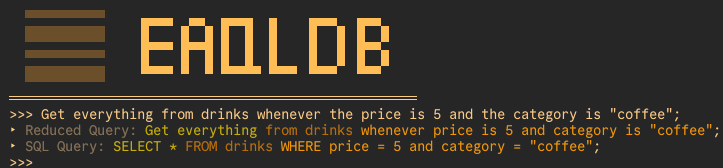
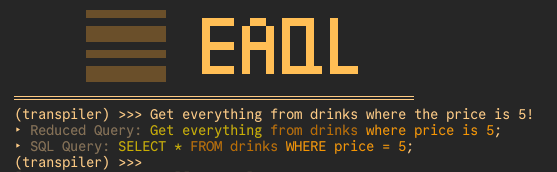
Decoupling from EAQLDB and beginning conversion to lib (#24)
* decoupling start

* cleanup

Changed region(s): [[0.0, 0.625, 1.0, 0.9821], [0.0305, 0.0595, 0.6409, 0.506], [0.0, 0.5357, 0.763, 0.5952]]

diff --git a/src/utils/help.rs b/src/utils/help.rs
@@ -1,23 +1,23 @@
 use crate::utils;
 
 const LOGO_ASCII: &str = "
- \x1b[90m ▀▀▀▀▀▀▀▀▀▀  \x1b[94m  ▗▄▄▄▖ ▗▄▖ ▗▄▄▄▖ ▗▖   ▗▄▄▄  ▗▄▄▖\x1b[0m       
- \x1b[90m ██████████  \x1b[94m  ▐▌   ▐▌ ▐▌▐▌ ▐▌ ▐▌   ▐▌  █ ▐▌ ▐▌\x1b[0m     
- \x1b[90m ▄▄▄▄▄▄▄▄▄▄  \x1b[94m  ▐▛▀▀▘▐▛▀▜▌▐▌ ▐▌ ▐▌   ▐▌  █ ▐▛▀▚▖\x1b[0m     
- \x1b[90m ▄▄▄▄▄▄▄▄▄▄  \x1b[94m  ▐▙▄▄▖▐▌ ▐▌▐▙▄▟▙▖▐▙▄▄ ▐▙▄▄▀ ▐▙▄▞▘\x1b[0m    
- \x1b[90m ▀▀▀▀▀▀▀▀▀▀  \x1b[0m                                   
-═══════════════════════════════════════════════════
+ \t\x1b[90m ▀▀▀▀▀▀▀▀▀▀  \x1b[94m  ▗▄▄▄▖ ▗▄▖ ▗▄▄▄▖ ▗▖   \x1b[0m       
+ \t\x1b[90m ██████████  \x1b[94m  ▐▌   ▐▌ ▐▌▐▌ ▐▌ ▐▌   \x1b[0m     
+ \t\x1b[90m ▄▄▄▄▄▄▄▄▄▄  \x1b[94m  ▐▛▀▀▘▐▛▀▜▌▐▌ ▐▌ ▐▌   \x1b[0m     
+ \t\x1b[90m ▄▄▄▄▄▄▄▄▄▄  \x1b[94m  ▐▙▄▄▖▐▌ ▐▌▐▙▄▟▙▖▐▙▄▄ \x1b[0m    
+ \t\x1b[90m ▀▀▀▀▀▀▀▀▀▀  \x1b[0m                                   
+══════════════════════════════════════════════════
 ";
 
 const HELP_MENU: &str = r#"
-     EAQL DB - Test Environment Help Menu
+       EAQL - Test Environment Help Menu
 
 Usage:
-    cargo run main.rs <module>
+    cargo run <module>
 
 Modules:
     transpile: EAQL -> SQL Language Transpiler
-    query_test: Query Validity Tester
+    validate: Query Validitor
     
 ═══════════════════════════════════════════════════
 "#;

diff --git a/src/bin/repl.rs b/src/bin/repl.rs
@@ -1,19 +1,22 @@
-mod eaql;
-mod utils;
+use eaql::{
+    transpiler,
+    validator,
+    utils,
+};
 
 fn main() {
     let args: Vec<String> = std::env::args().collect();
     
     utils::help::display_logo();
 
-    if args.len() <= 2 {
+    if args.len() < 2 {
         utils::help::display_help(None);
         panic!("Abort: Invalid number of params");
     }
 
-    match args[2].as_str() {
-        "transpile" => eaql::transpiler::transpiler::run(),
-        "query_test" => eaql::tester::tester::run(),
+    match args[args.len() - 1].as_str() {
+        "transpile" => transpiler::transpiler::engine(),
+        "query_test" => validator::validator::engine(),
         _ => utils::help::display_help(
            Some(format!("Invalid Testing CLI Argument -> {}, see usage!", args[2]).as_str()))
     }

diff --git a/src/language/parser/parser.rs b/src/language/parser/parser.rs
@@ -3,20 +3,18 @@ use crate::{
     utils::{
         logger
     },
-    eaql::{
-        language::{
-            parser::{
-                helpers::{
-                    validate_length, get_tab
-                },
-                get::GetNode
+    language::{
+        parser::{
+            helpers::{
+                validate_length, get_tab
             },
-            tokens::{
-                Token, TokenType
-            },
-            parser::database::{
-                DatabaseNode
-            }
+            get::GetNode
+        },
+        tokens::{
+            Token, TokenType
+        },
+        parser::database::{
+            DatabaseNode
         }
     }
 };

diff --git a/src/transpiler/transpiler.rs b/src/transpiler/transpiler.rs
@@ -1,20 +1,19 @@
 use crate::{
-    eaql::{
-        eaql::process_query,
-        language::parser::parser::Query,
-    }, utils::{
+    language::parser::parser::Query,
+    utils::{
         colors::{
             colorize,
             AnsiColor
         },
         io,
-        logger
+        logger,
+        query::process_query
     }
 };
 
-pub fn run() {
+pub fn engine() {
     loop {
-        let query: String = io::query_stdin();
+        let query: String = io::query_stdin("transpiler");
 
         let parsed: Query = match process_query(&query) {
             Some(state) => state,

diff --git a/src/validator/validator.rs b/src/validator/validator.rs
@@ -4,17 +4,15 @@ use crate::{
         colors::{
             colorize,
             AnsiColor
-        }
+        },
+        query::process_query
     },
-    eaql::{
-        eaql::process_query
-    }
 };
 
-pub fn run() {
+pub fn engine() {
     loop {
         // Get input
-        let query: String = io::query_stdin();
+        let query: String = io::query_stdin("validator");
 
         match process_query(&query) {
             Some(_) => println!("{}", colorize("Valid query!", AnsiColor::BrightGreen)),

diff --git a/src/language/parser/conditional.rs b/src/language/parser/conditional.rs
@@ -1,13 +1,11 @@
 use std::fmt;
 use crate::{
-    eaql::{
-        language::{
-            parser::helpers::{
-                get_tab, valid_until_warning, validate_length
-            }, 
-            tokens::{
-                Token, TokenType
-            }
+    language::{
+        parser::helpers::{
+            get_tab, valid_until_warning, validate_length
+        }, 
+        tokens::{
+            Token, TokenType
         }
     },
     utils::logger

diff --git a/src/language/parser/postprocessor.rs b/src/language/parser/postprocessor.rs
@@ -1,14 +1,12 @@
 use std::{fmt, usize};
 use crate::{
-    eaql::{
-        language::{
-            parser::helpers::{
-                get_tab, peek_one, validate_length
-            },
-            tokens::{
-                Token, TokenType
-            }
+    language::{
+        parser::helpers::{
+            get_tab, peek_one, validate_length
         },
+        tokens::{
+            Token, TokenType
+        }
     },
     utils::{
         colors::{

diff --git a/src/utils/query.rs b/src/utils/query.rs
@@ -1,11 +1,12 @@
-// This is the main interface to the interworkings of the EAQL language
-use crate::eaql::language::{
-    lexer::{self, Lexer},
-    parser::parser::{self, Query},
-    tokens::{self}
+use crate::{
+    language::{
+        lexer::{self, Lexer},
+        parser::parser::{self, Query},
+        tokens::{self}
+    },
+    utils::logger
 };
 
-use crate::utils::logger;
 
 // Process query to low level components (parsed)
 pub fn process_query(

diff --git a/src/utils/io.rs b/src/utils/io.rs
@@ -3,10 +3,10 @@ use crate::{
     utils::logger
 };
 
-pub fn query_stdin() -> String {
+pub fn query_stdin(tag: &str) -> String {
     // Get input
     let mut line: String = String::new();
-    print!(">>> ");
+    print!("({}) >>> ", tag);
     io::stdout().flush().unwrap();
     io::stdin().read_line(&mut line).unwrap();
     line = line.trim().to_string(); 

diff --git a/src/utils/logger.rs b/src/utils/logger.rs
@@ -7,7 +7,7 @@ use crate::utils::colors::{
 
 // TODO: Move these to config?
 pub const TEST_MODE: bool = true;
-pub const LOG_LEVEL: i32 = 0;
+pub const LOG_LEVEL: i32 = 3;
 
 pub const DEBUG: (i32, &str, AnsiColor) = (1, "Debug", AnsiColor::BrightBlack);
 pub const ERROR: (i32, &str, AnsiColor) = (4, "Error", AnsiColor::BrightRed);

diff --git a/src/language/parser/database.rs b/src/language/parser/database.rs
@@ -7,7 +7,8 @@ Make the database db_name.
 
 
 use std::{fmt, usize};
-use crate::{eaql::language::{
+use crate::{
+    language::{
         parser::{
             helpers::{
                 get_tab, validate_length, peek_one

diff --git a/src/language/parser/get.rs b/src/language/parser/get.rs
@@ -1,6 +1,6 @@
 use std::{fmt, usize};
 use crate::{
-    eaql::language::{
+    language::{
         parser::{
             conditional::ConditionNode,
             helpers::{
